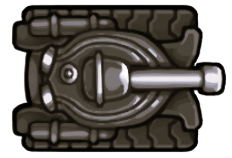
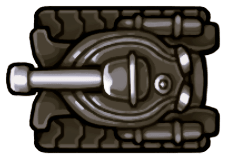
2nd tank rotate

diff --git a/player.py b/player.py
@@ -12,7 +12,7 @@ class Player(pygame.sprite.Sprite):
         self.velocity = 7
         self.all_projectiles = pygame.sprite.Group()
         self.image = pygame.image.load(image)
-        self.image = pygame.transform.rotate(self.image, 270)
+        self.image = pygame.transform.rotate(self.image, 180)
         self.image = pygame.transform.scale(self.image, (100,100))
         self.rect = self.image.get_rect()
         self.rect.x = x

diff --git a/game.py b/game.py
@@ -1,8 +1,10 @@
 from player import Player
+import pygame
 
 class Game:
     def __init__(self):
         self.player = Player("assets/red_tank.png", 200, 200)
         self.player2 = Player("assets/bleu_tank.png", 600, 200)
+
         self.pressed = {}
 

diff --git a/main.py b/main.py
@@ -19,7 +19,7 @@ joystickRedRight = Button("GPIO22")
 joystickRedDown = Button("GPIO17")
 
 pygame.display.set_caption("Test")
-screen = pygame.display.set_mode((800,400))
+screen = pygame.display.set_mode((800,40))
 
 
 
